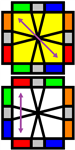
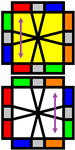
Reordered square-1 CP parity images

diff --git a/square-1/cp.html b/square-1/cp.html
@@ -167,7 +167,7 @@ title: Square-1 &mdash; CP Algorithms
       </div>
 
       <div class="details">
-        <span class="alg">/ (3,3) / (-1,0) /-4,2) / (-2,4)) / (0,-5) / (3,3) /</span>
+        <span class="alg">/ (3,3) / (-1,0) / (-4,2) / (-2,4)) / (0,-5) / (3,3) /</span>
       </div>
     </li>
 
